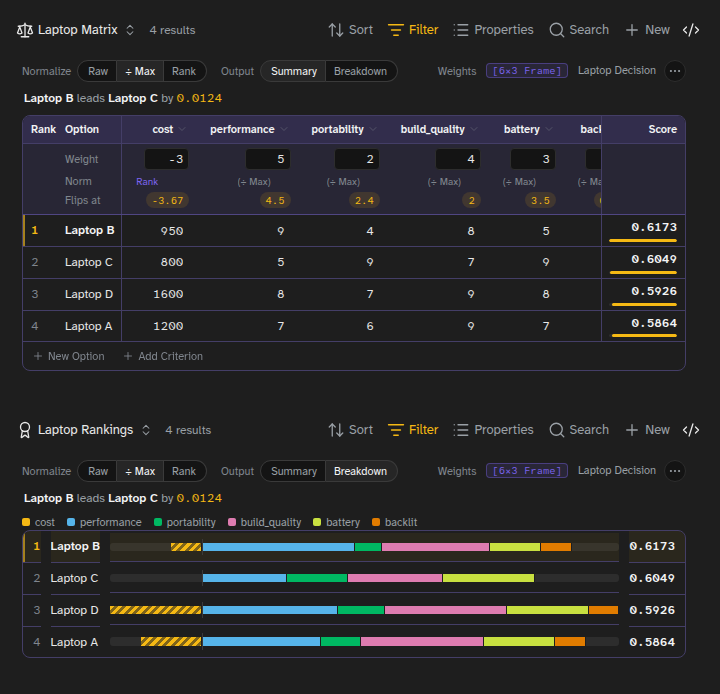
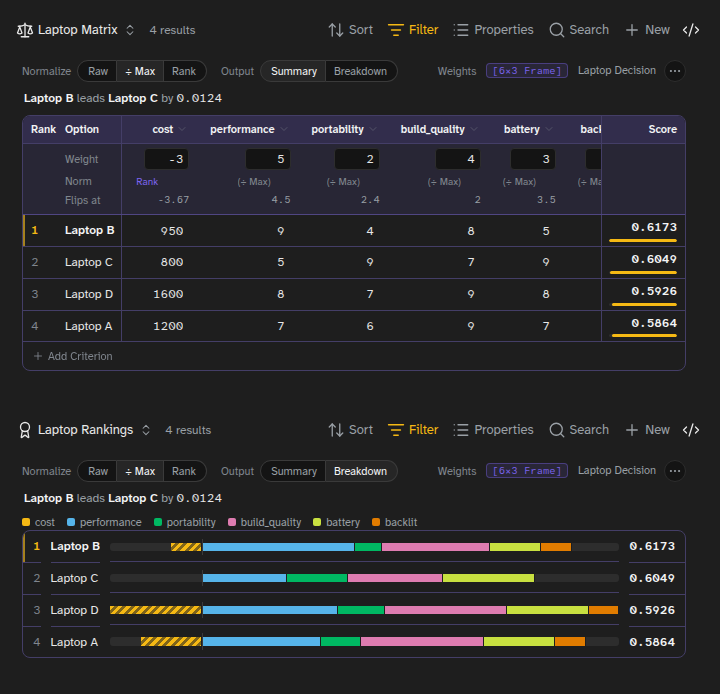
Neutral flip points and leader line; drop New Option
- Flip points are read-only text in the value ink. Clicking one set a
  weight to a near-tie with no undo, and the accent-tinted pill was
  decoration the Quiet Accent Rule leaves to the author.
- The leader line's margin and the Rankings winner row lose their accent
  tint; the winner keeps its accent edge, which marks the state.
- New Option duplicated the Bases toolbar's New a few pixels above it.
- The no-criteria state no longer narrates its own field.

Claude-Session: https://claude.ai/code/session_01AkFx53SJpgiff4eX28mkU3

diff --git a/styles.css b/styles.css
@@ -368,7 +368,6 @@ body .dmv-root .dmv-field > button.dmv-btn:not(.clickable-icon):not(.mod-cta):di
 .dmv-rank-row:last-child > * { border-bottom: none; }
 .dmv-rank-row > :first-child { padding-left: 10px; }
 .dmv-rank-row > :last-child { padding-right: 10px; text-align: right; }
-.dmv-rank-row.is-top > * { background: color-mix(in srgb, var(--sol-accent) 6%, transparent); }
 .dmv-rank-row.is-top > :first-child { box-shadow: inset 2px 0 0 var(--sol-emphasis); }
 
 .dmv-rank-name {
@@ -513,20 +512,12 @@ body .dmv-root button.dmv-head-btn:not(.clickable-icon):not(.mod-cta):not(.mod-w
 
 .dmv-root input.dmv-name-input[type] { width: 11ch; text-align: left; font-family: var(--font-interface); }
 
-body .dmv-root button.dmv-flip:not(.clickable-icon):not(.mod-cta):not(.mod-warning) {
-	height: 16px;
-	padding: 0 5px;
+.dmv-flip {
 	font-family: var(--font-monospace);
 	font-size: 10px;
-	color: var(--sol-ink-accent);
-	background: color-mix(in srgb, var(--sol-accent) 12%, transparent);
-	border: 1px solid transparent;
-	border-radius: 999px;
-	box-shadow: none;
-	cursor: pointer;
+	line-height: 16px;
+	color: var(--sol-text-dim);
 }
-body .dmv-root button.dmv-flip:not(.clickable-icon):not(.mod-cta):not(.mod-warning):hover { border-color: var(--sol-edge); }
-body .dmv-root button.dmv-flip:not(.clickable-icon):not(.mod-cta):not(.mod-warning):disabled { cursor: default; }
 .dmv-flip.is-never {
 	font-family: var(--font-interface);
 	font-size: 10px;
@@ -572,7 +563,7 @@ body .dmv-root button.dmv-text-btn:not(.clickable-icon):not(.mod-cta):not(.mod-w
 	text-wrap-style: balance;
 }
 .dmv-root .dmv-lead .dmv-lead-name { color: var(--sol-text-bright); font-weight: 600; }
-.dmv-lead-margin { font-family: var(--font-monospace); color: var(--sol-ink-accent); }
+.dmv-lead-margin { font-family: var(--font-monospace); color: var(--sol-text); }
 
 .dmv-state-action { margin-top: 8px; }
 

diff --git a/src/view.ts b/src/view.ts
@@ -239,14 +239,6 @@ export abstract class DecisionView extends BasesView implements HoverParent {
 		}).open();
 	}
 
-	/** Starts a note in the base with an empty Scores row, one column per criterion. */
-	protected newOption(): void {
-		const key = this.scoresProperty;
-		const columns = Object.fromEntries((this.model?.criteria ?? []).map(c => [c.name, null]));
-		assignFrameType(this.app, key);
-		void this.createFileForView(undefined, (fm: Record<string, unknown>) => { fm[key] = [columns]; });
-	}
-
 	// ── Option links ──────────────────────────────────────────
 
 	protected optionLink(parent: HTMLElement, item: DecisionItem, cls = 'dmv-link'): HTMLElement {
@@ -299,7 +291,7 @@ export abstract class DecisionView extends BasesView implements HoverParent {
 		}
 		if (criteria.length === 0) {
 			const empty = root.createDiv('dmv-state');
-			empty.createDiv({ text: `No criteria yet. Add one here, or give the notes a ${this.scoresProperty} Frame with a number column per criterion.` });
+			empty.createDiv({ text: `No criteria yet. Give the notes a ${this.scoresProperty} Frame with a number column per criterion.` });
 			if (canEditCriteria) {
 				draftInput(empty.createDiv('dmv-state-action'), 'dmv-input dmv-name-input', '', (name) => this.addCriterion(name), {
 					inputmode: 'text', placeholder: 'Criterion name', 'aria-label': 'New criterion', 'data-dmv-key': 'new-criterion',

diff --git a/src/matrix-view.ts b/src/matrix-view.ts
@@ -48,9 +48,8 @@ export class DecisionMatrixView extends DecisionView {
 			}
 		}
 
-		const foot = tbody.createEl('tr', { cls: 'dmv-new-row' }).createEl('td', { cls: 'dmv-td', attr: { colspan: String(span) } }).createDiv('dmv-foot');
-		textButton(foot, 'New Option', () => this.newOption());
 		if (!m.canEditCriteria) return;
+		const foot = tbody.createEl('tr', { cls: 'dmv-new-row' }).createEl('td', { cls: 'dmv-td', attr: { colspan: String(span) } }).createDiv('dmv-foot');
 		if (this.naming === '') this.nameField(foot, '', 'New criterion', (name) => this.addCriterion(name));
 		else textButton(foot, 'Add Criterion', () => { this.naming = ''; this.render(); });
 	}
@@ -83,13 +82,7 @@ export class DecisionMatrixView extends DecisionView {
 				cell.createSpan({ text: 'never', cls: 'dmv-flip is-never', attr: { title: 'No weight here changes first place' } });
 				return;
 			}
-			const btn = cell.createEl('button', {
-				text: String(flip),
-				cls: 'dmv-flip',
-				attr: { title: 'Set this weight to where first place changes hands', 'aria-label': `Flip point of ${c.label}` },
-			});
-			btn.disabled = !m.canEditCriteria;
-			btn.addEventListener('click', () => this.setWeight(c, flip));
+			cell.createSpan({ text: String(flip), cls: 'dmv-flip', attr: { 'aria-label': `Flip point of ${c.label}` } });
 		});
 		weights.createEl('th', { cls: 'dmv-th' });
 	}

diff --git a/README.md b/README.md
@@ -25,7 +25,6 @@ Both views have two controls, saved with the view:
 - In a Weight field, **↑** and **↓** step it by 1, and by 0.1 with **Shift**.
 - **Add Criterion** under the table names a new criterion and adds its row to the Weights frame. Its column is ready for values straight away, and it starts counting once a note has a value, which keeps the scores the same as Solenoid's.
 - A criterion's header menu has **Rename** (the Scores frame on every note and the Weights row), **Lower Is Better** (flips the weight's sign) and **Remove Criterion**.
-- **New Option** starts a note in the base with a Scores row holding every criterion.
 - Hover an option's name for a page preview, or right-click it for the file menu.
 - The Rank, Option and Score columns stay put while a wide matrix scrolls.
 - **⋯** in the toolbar has **Copy as Markdown**, which copies the ranking as a table (with the contributions under Breakdown), and **Reset Weights**.
@@ -34,7 +33,7 @@ Both views have two controls, saved with the view:
 
 Above each view a line names the leader, the runner-up and the margin between them, or says who is tied for first.
 
-Under each weight, **Flips at** is the weight at which a different option would take first place if every other weight stayed put. A flip point near the current weight means the decision hangs on that weight; **never** means no weight on that criterion changes the winner. Clicking a flip point sets the weight to it.
+Under each weight, **Flips at** is the weight at which a different option would take first place if every other weight stayed put. A flip point near the current weight means the decision hangs on that weight; **never** means no weight on that criterion changes the winner.
 
 ## Scoring
 
